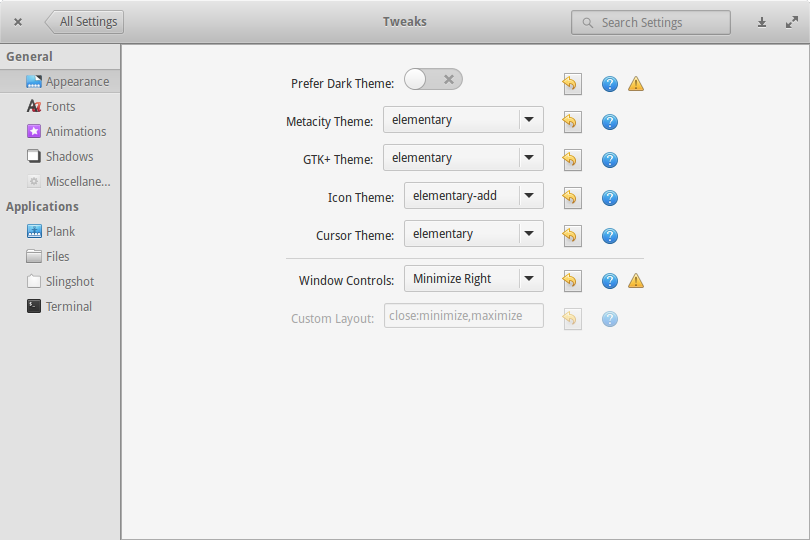
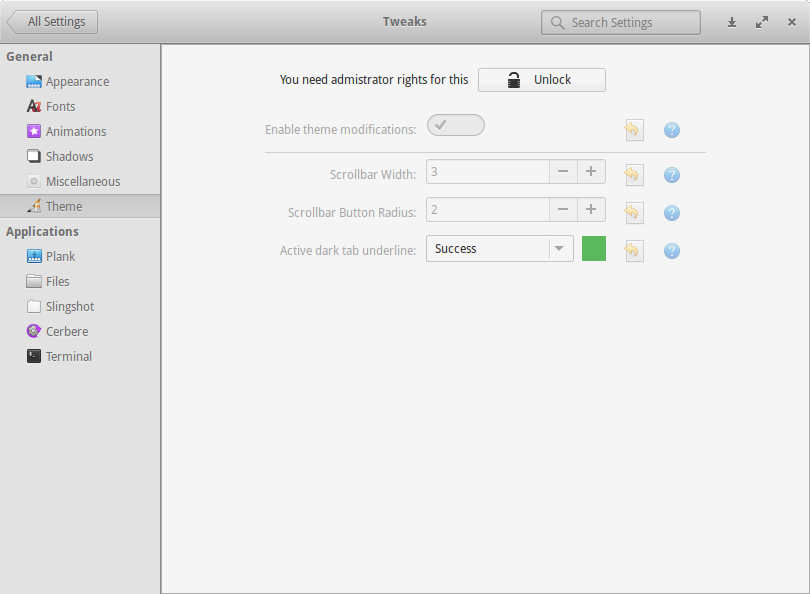
Update info, remove screenshots
Updates to info of Tweaks, Plus, Radio Tray;
remove obsolete screenshots of Currency, Feedler, Calculator, Scratch;
update Tweaks screenshot

diff --git a/apps/Elementary Tweaks.md b/apps/Elementary Tweaks.md
@@ -2,7 +2,7 @@
 
 layout: app
 created: 2015-01-07
-updated: 2015-04-28
+updated: 2015-10-10
 
 permalink: /elementary Tweaks/
 generic: customization
@@ -18,26 +18,23 @@ authors:
     url: "https://launchpad.net/~uwes"
   - name: George Chalkitis
     url: "https://launchpad.net/~chalkitisge"
+  - name: Perfect Carl
+    url: "https://github.com/PerfectCarl"
 
 links:
   - type: Launchpad
     url: elementary-tweaks
+  - type: GitHub
+    url: I-hate-farms/elementary-tweaks
 
 screenshots:
   - elementary Tweaks.png
-
-installation:
-  - system: elementary
-    info:
-    - version: 0.3
-      repository: 'ppa:justsomedood/justsomeelementary'
-      package: elementary-tweaks
-      type: stable
-    - version: 0.3
-      repository: 'ppa:mpstark/elementary-tweaks-daily'
-      package: elementary-tweaks
-      type: unstable
 ---
+## Installation
+Install i-hate-farms repository (not necessary if already done)
+    curl -sL  http://i-hate-farms.github.io/spores/install | sudo bash - 
+    sudo apt-get install elementary-tweaks
+
 ## Video
 A review by [Joaquín Padilla Rivero](https://www.youtube.com/channel/UC_im4PuM9ViTNjaUf2cXmgg)
 

diff --git a/apps/Radio Tray.md b/apps/Radio Tray.md
@@ -7,7 +7,7 @@ updated: 2015-04-28
 permalink: /Radio Tray/
 generic: indicator
 description: Radio Tray is an online radio streaming player that runs on a Linux system tray. Its goal is to have the minimum interface possible, making it very straightforward to use.
-license:
+license: GPL v1
 
 authors:
   - name: Carlos Ribeiro

diff --git a/apps/elementary+.md b/apps/elementary+.md
@@ -7,7 +7,7 @@ updated: 2015-07-11
 permalink: /elementary+/
 generic: icon set
 description: A collection of several third party icons and scripts for panel indicators as an addition to the default icon theme.
-license: TBD
+license: GPL v3
 
 authors:
   - name: Manuel Kehl
